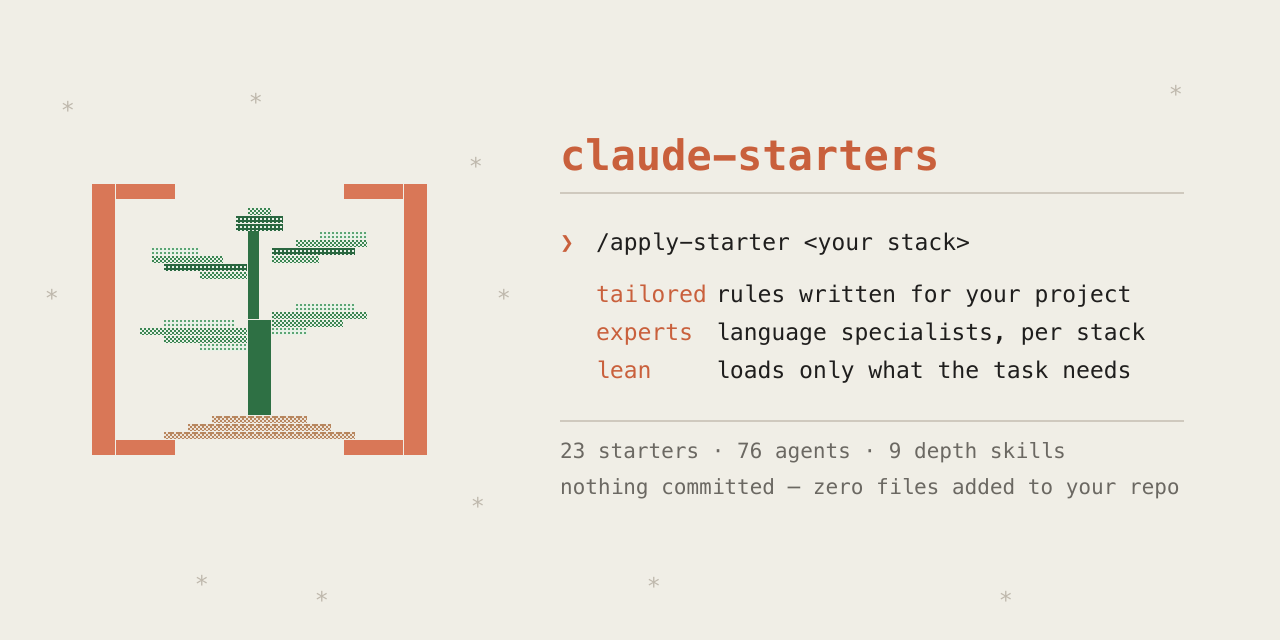
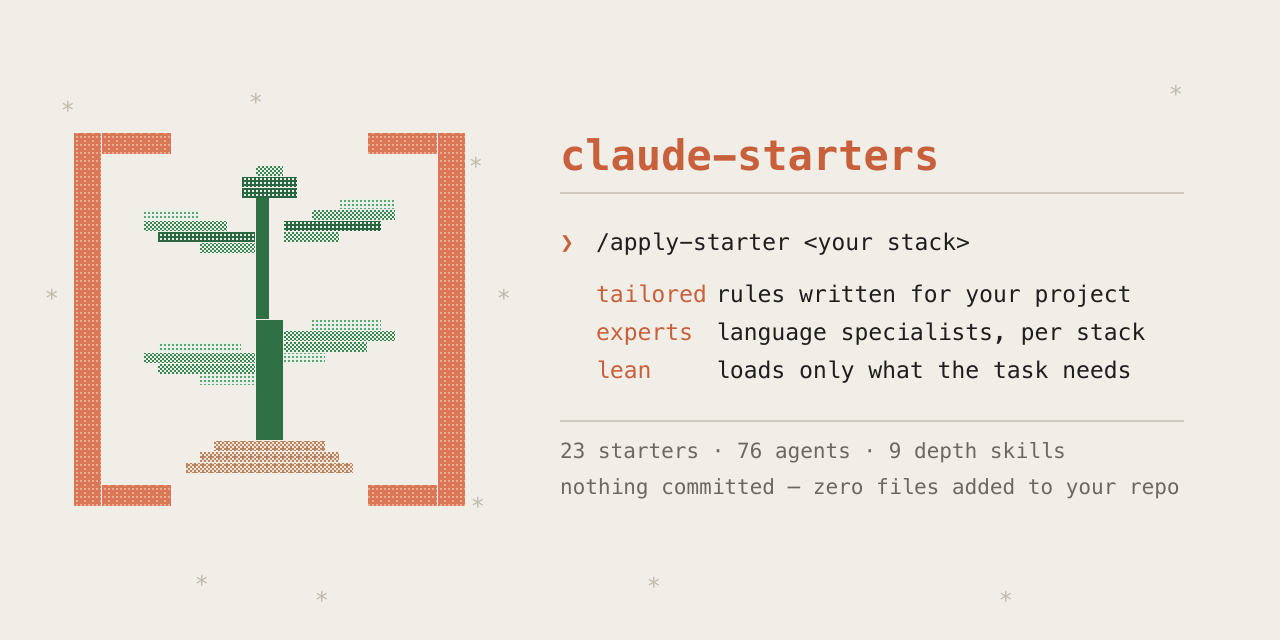
fix(assets): mark sized to the copy, dithered braces, plainer demo copy
Card
- Mark scaled from 336x272 to 392x374 so it matches the copy block's height
  instead of floating small beside it.
- Braces carry a light dither now rather than reading as flat clay fill.
- Plant given real clearance from the frame: 3 clear cells from each spine and
  it no longer reaches the arm rows, so the soil can't fuse with the bottom
  arms the way it did.
- Guard widened to assert that clearance on all four sides, so a future edit
  that crowds the frame fails instead of rendering wrong.
- Leaf pairs rebalanced to sit opposite each other and close the bare run of
  stem above the soil.

Demo
- Dropped the .git/info/exclude and .gitignore jargon: the picture now just
  says the starter added zero files to your repo.
- Dropped "teammates see nothing" — a real benefit, but a niche one that the
  zero-files line already implies.
- Height trimmed to suit the shorter copy.

Changed region(s): [[0.0312, 0.1875, 0.375, 0.8125]]

diff --git a/assets/make-social-preview.py b/assets/make-social-preview.py
@@ -19,9 +19,9 @@ BRACKET, STEM_G, SOIL = "#D97757", "#2E7044", "#B8875F"
 SPARK_C = "#B9B2A6"
 
 # ---- mark geometry -------------------------------------------------------
-UW, UH, GAP = 12, 8, 1          # fine grid: still wide slabs, ~2.5x more detail
+UW, UH, GAP = 14, 11, 1         # sized so the mark matches the copy block's height
 COLS, ROWS = 28, 34
-X0 = 92
+X0 = 74
 Y0 = (H - ROWS * UH) // 2
 
 SPINE_L, SPINE_R = (0, 1), (26, 27)
@@ -34,16 +34,16 @@ ARM_ROWS = ((0, 2), (32, 2))     # (start_row, thickness)
 BUD     = [(3, 13, 14, "d50"), (4, 12, 15, "d75"), (5, 12, 15, "d75")]
 
 UPPER_R = [(6, 19, 22, "d25"), (7, 17, 22, "d50"), (8, 15, 21, "d75"), (9, 15, 18, "d50")]
-UPPER_L = [(8, 5, 8, "d25"), (9, 5, 10, "d50"), (10, 6, 12, "d75"), (11, 9, 12, "d50")]
+UPPER_L = [(7, 5, 8, "d25"), (8, 5, 10, "d50"), (9, 6, 12, "d75"), (10, 9, 12, "d50")]
 
-LOWER_R = [(15, 17, 21, "d25"), (16, 15, 22, "d50"), (17, 15, 20, "d50"), (18, 15, 17, "d25")]
-LOWER_L = [(17, 6, 11, "d25"), (18, 4, 12, "d50"), (19, 6, 12, "d50"), (20, 9, 12, "d25")]
+LOWER_R = [(17, 17, 21, "d25"), (18, 15, 22, "d50"), (19, 15, 20, "d50"), (20, 15, 17, "d25")]
+LOWER_L = [(19, 6, 11, "d25"), (20, 5, 12, "d50"), (21, 6, 12, "d50"), (22, 9, 12, "d25")]
 
 LEAVES = BUD + UPPER_R + UPPER_L + LOWER_R + LOWER_L
 
 STEM = [(5, 13, 13, 12),                       # (row, c0, c1, rows) solid
-        (17, 13, 14, 12)]                      # tapers wider toward the soil
-SOIL_ROWS = [(29, 10, 17), (30, 8, 19), (31, 6, 21)]
+        (17, 13, 14, 11)]                      # tapers wider toward the soil
+SOIL_ROWS = [(28, 10, 17), (29, 9, 18), (30, 8, 19)]
 
 # ---- copy ----------------------------------------------------------------
 TX, CX, DX = 560, 596, 716
@@ -73,12 +73,12 @@ def block(row, c0, c1, rows, fill):
             f'width="{(c1-c0+1)*UW - GAP}" height="{rows*UH - GAP}" fill="{fill}"/>')
 
 body = [
-    block(0, *SPINE_L, ROWS, BRACKET),
-    block(0, *SPINE_R, ROWS, BRACKET),
+    block(0, *SPINE_L, ROWS, "url(#brace)"),
+    block(0, *SPINE_R, ROWS, "url(#brace)"),
 ]
 for r0, th in ARM_ROWS:
-    body.append(block(r0, *ARM_L, th, BRACKET))
-    body.append(block(r0, *ARM_R, th, BRACKET))
+    body.append(block(r0, *ARM_L, th, "url(#brace)"))
+    body.append(block(r0, *ARM_R, th, "url(#brace)"))
 
 for row, c0, c1, rows in STEM:
     body.append(block(row, c0, c1, rows, STEM_G))
@@ -87,9 +87,15 @@ for row, c0, c1, dens in LEAVES:
 for row, c0, c1 in SOIL_ROWS:
     body.append(block(row, c0, c1, 1, "url(#soil)"))
 
-# guard: nothing may stray onto the bracket spines
+# guard: the plant keeps 3 clear cells from the spines and never reaches the
+# arm rows, so it can't visually fuse with the frame.
+SAFE_C, SAFE_R = (5, 22), (3, 30)
 for row, c0, c1, *_ in LEAVES:
-    assert 2 <= c0 <= c1 <= 25, f"leaf row {row} hits the frame: {c0}..{c1}"
+    assert SAFE_C[0] <= c0 <= c1 <= SAFE_C[1], f"leaf row {row} crowds the frame: {c0}..{c1}"
+    assert SAFE_R[0] <= row <= SAFE_R[1], f"leaf row {row} outside safe rows"
+for row, c0, c1 in SOIL_ROWS:
+    assert SAFE_C[0] <= c0 <= c1 <= SAFE_C[1], f"soil row {row} crowds the frame: {c0}..{c1}"
+    assert row <= SAFE_R[1], f"soil row {row} reaches the arm rows"
 
 sparks = "".join(
     f'<text x="{x}" y="{y}" font-family="Menlo, monospace" font-size="19" '
@@ -102,6 +108,7 @@ svg = f'''<svg xmlns="http://www.w3.org/2000/svg" viewBox="0 0 {W} {H}" width="{
     {dither("d50", "#E8F1E7", "#3C8552", 8)}
     {dither("d75", "#E8F1E7", "#2A6740", 12)}
     {dither("soil", "#EDE3D8", "#B8875F", 9)}
+    {dither("brace", "#D97757", "#EBA98F", 3)}
   </defs>
   <rect width="{W}" height="{H}" fill="{BG}"/>
   {sparks}
